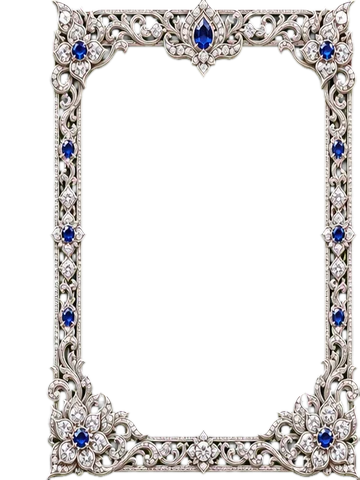
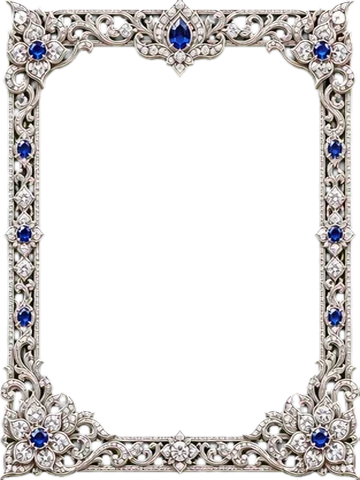
Trim and refit tier frames per side (silver frame fixed); popup close button always on top
Claude-Session: https://claude.ai/code/session_01J9NCfUiJuw3EvZopB36234

diff --git a/style.css b/style.css
@@ -436,12 +436,6 @@ button{font-family:inherit;color:inherit;cursor:pointer}
 .card.t1 .prov{left:4cqw;top:24cqw;z-index:auto}.card.t1 .tp{right:4cqw;top:24cqw;z-index:auto}
 .card.t1 .pips{bottom:-11cqw}
 .card.t1::after{border-radius:0}
-.card.t1::after{inset:-13.93% -16.83%}
-.card.t2::after{inset:-12.76% -13.97%}
-.card.t3::after{inset:-16.59% -18.35%}
-.card.t4::after{inset:-17.34% -16.83%}
-.card.t5::after{inset:-16.23% -16.83%}
-.card.t6::after{inset:-18.49% -22.18%}
 .grid{gap:20px 18px;padding:18px 18px 28px}
 .deckStrip{gap:10px 9px}
 .deckSlots{gap:10px}
@@ -468,10 +462,12 @@ button{font-family:inherit;color:inherit;cursor:pointer}
 .card.t6::before{background:radial-gradient(circle,rgba(255,220,140,.7),rgba(255,150,220,.35) 70%)}
 .card.dual.t1::before{display:none}.card.dual.t4::before,.card.dual.t5::before,.card.dual.t6::before{display:block;-webkit-mask:none;mask:none;padding:0;animation:none}
 /* v5b: straight-edge fit; frame is behind the art so nothing of it can cover the picture */
-.card.t1::after{inset:-13.28% -15.77%}
-.card.t2::after{inset:-12.14% -13.01%}
-.card.t3::after{inset:-15.89% -17.24%}
-.card.t4::after{inset:-16.62% -15.77%}
-.card.t5::after{inset:-15.53% -15.77%}
-.card.t6::after{inset:-17.75% -20.96%}
 .card.t1 .art{border-radius:1.6cqw}
+/* v6: frames trimmed to their real edge; band measured by density; frame drawn behind the art */
+.card.t1::after{inset:-14.34% -15.43% -18.20% -15.43%}
+.card.t2::after{inset:-15.14% -15.37% -19.63% -15.01%}
+.card.t3::after{inset:-17.40% -16.95% -19.68% -17.32%}
+.card.t4::after{inset:-16.59% -18.34% -18.56% -17.96%}
+.card.t5::after{inset:-21.87% -17.96% -16.40% -18.34%}
+.card.t6::after{inset:-23.27% -20.56% -18.26% -20.56%}
+.mClose{z-index:10}
